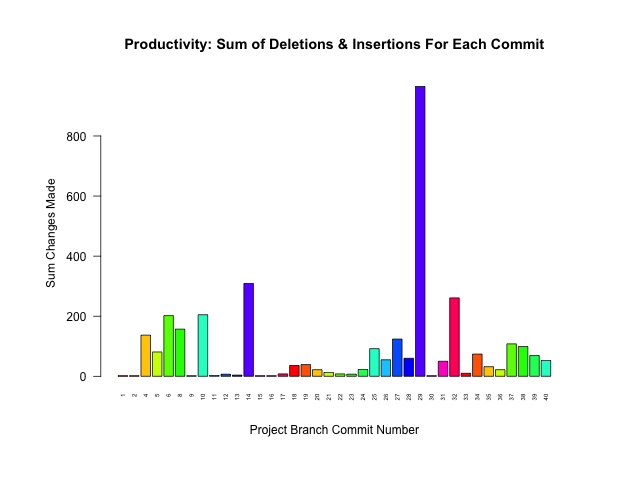
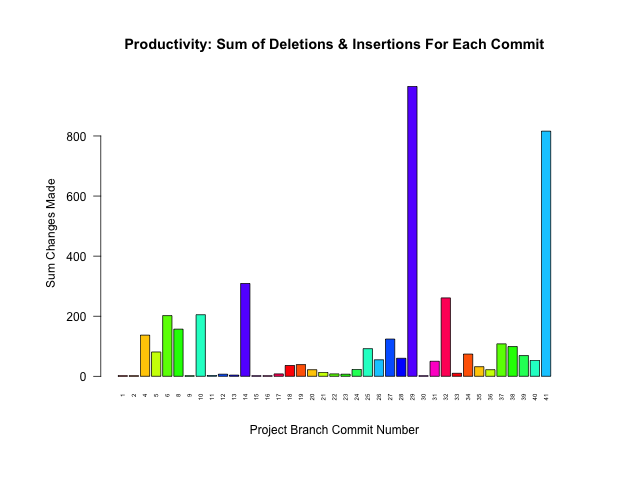
COMMIT #97

diff --git a/README.md b/README.md
@@ -16,8 +16,8 @@ ProjectName::BranchName.data
 
 Project Name | Last Updated | Number of Commits
 :---|:---|:---
-FASTQ_examiner_project                   |  2023-03-20  |  40
-commit_tracker_project                   |  2023-03-18  |  95
+FASTQ_examiner_project                   |  2023-03-24  |  41
+commit_tracker_project                   |  2023-03-20  |  96
 minishell_project                        |  2023-02-03  |  67
 ft_printf_project                        |  2023-01-27  |  36
 test_non-fastforward_merge-push_project  |  2023-01-27  |  15
